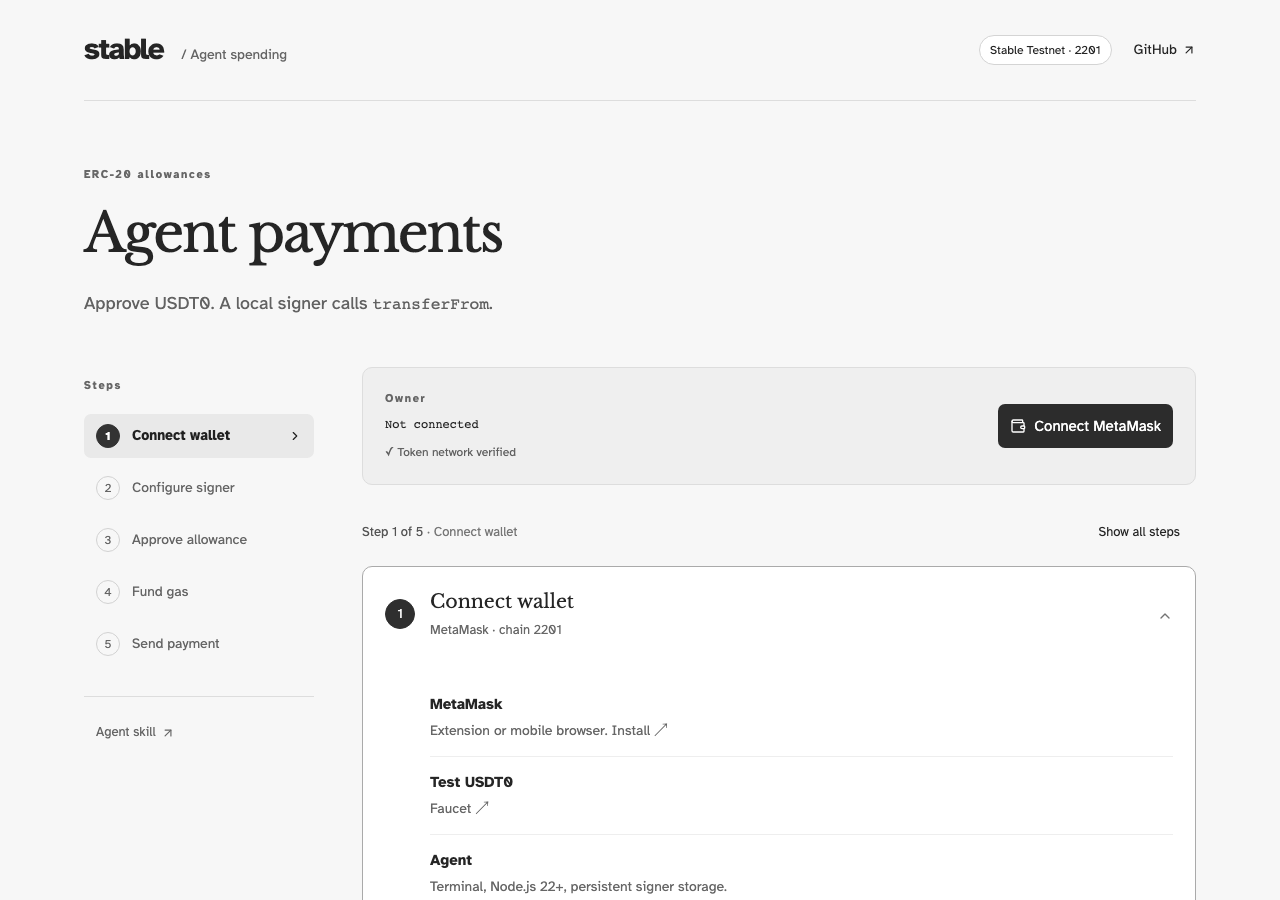
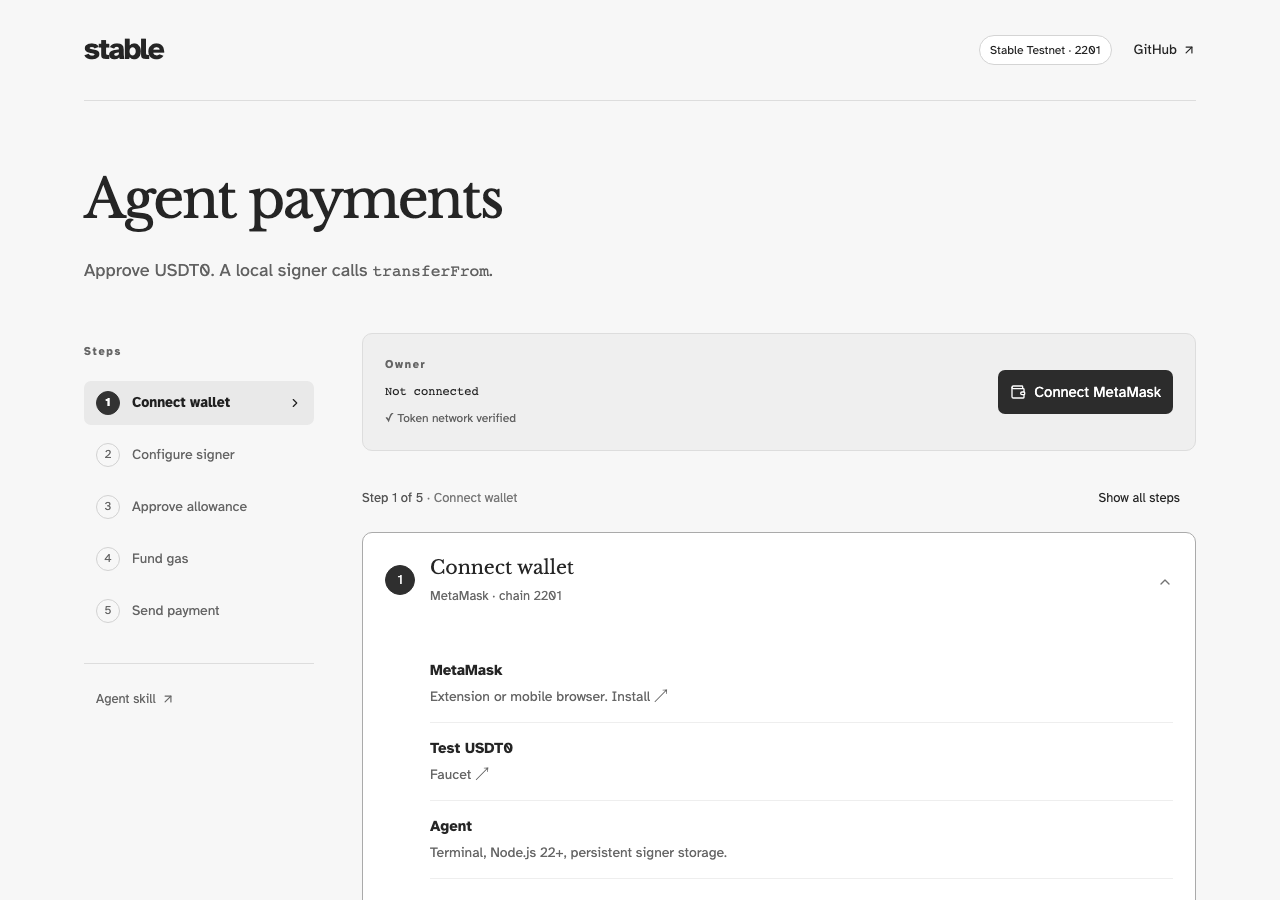
Remove redundant demo labels

diff --git a/web/src/App.tsx b/web/src/App.tsx
@@ -501,7 +501,7 @@ Tell me if your storage might not persist between sessions. Stop before making a
     <div className="shell">
       <header className="site-header">
         <a className="brand" href="/">
-          stable<span> / Agent spending</span>
+          stable
         </a>
         <div className="header-links">
           <Badge variant="outline">Stable Testnet · 2201</Badge>
@@ -516,7 +516,6 @@ Tell me if your storage might not persist between sessions. Stop before making a
       </header>
       <main>
         <div className="intro">
-          <p className="eyebrow">ERC-20 allowances</p>
           <h1>Agent payments</h1>
           <p>
             Approve USDT0. A local signer calls <code>transferFrom</code>.

diff --git a/web/src/style.css b/web/src/style.css
@@ -136,13 +136,6 @@ p:last-child {
   letter-spacing: -1.5px;
   white-space: nowrap;
 }
-.brand span {
-  font-size: 14px;
-  letter-spacing: 0;
-  color: #666;
-  margin-left: 14px;
-  font-weight: 400;
-}
 .header-links {
   display: flex;
   align-items: center;
@@ -678,11 +671,6 @@ footer strong {
   }
   .brand {
     font-size: 27px;
-  }
-  .brand span {
-    display: block;
-    font-size: 12px;
-    margin: 3px 0 0;
   }
   .header-links {
     gap: 0;
